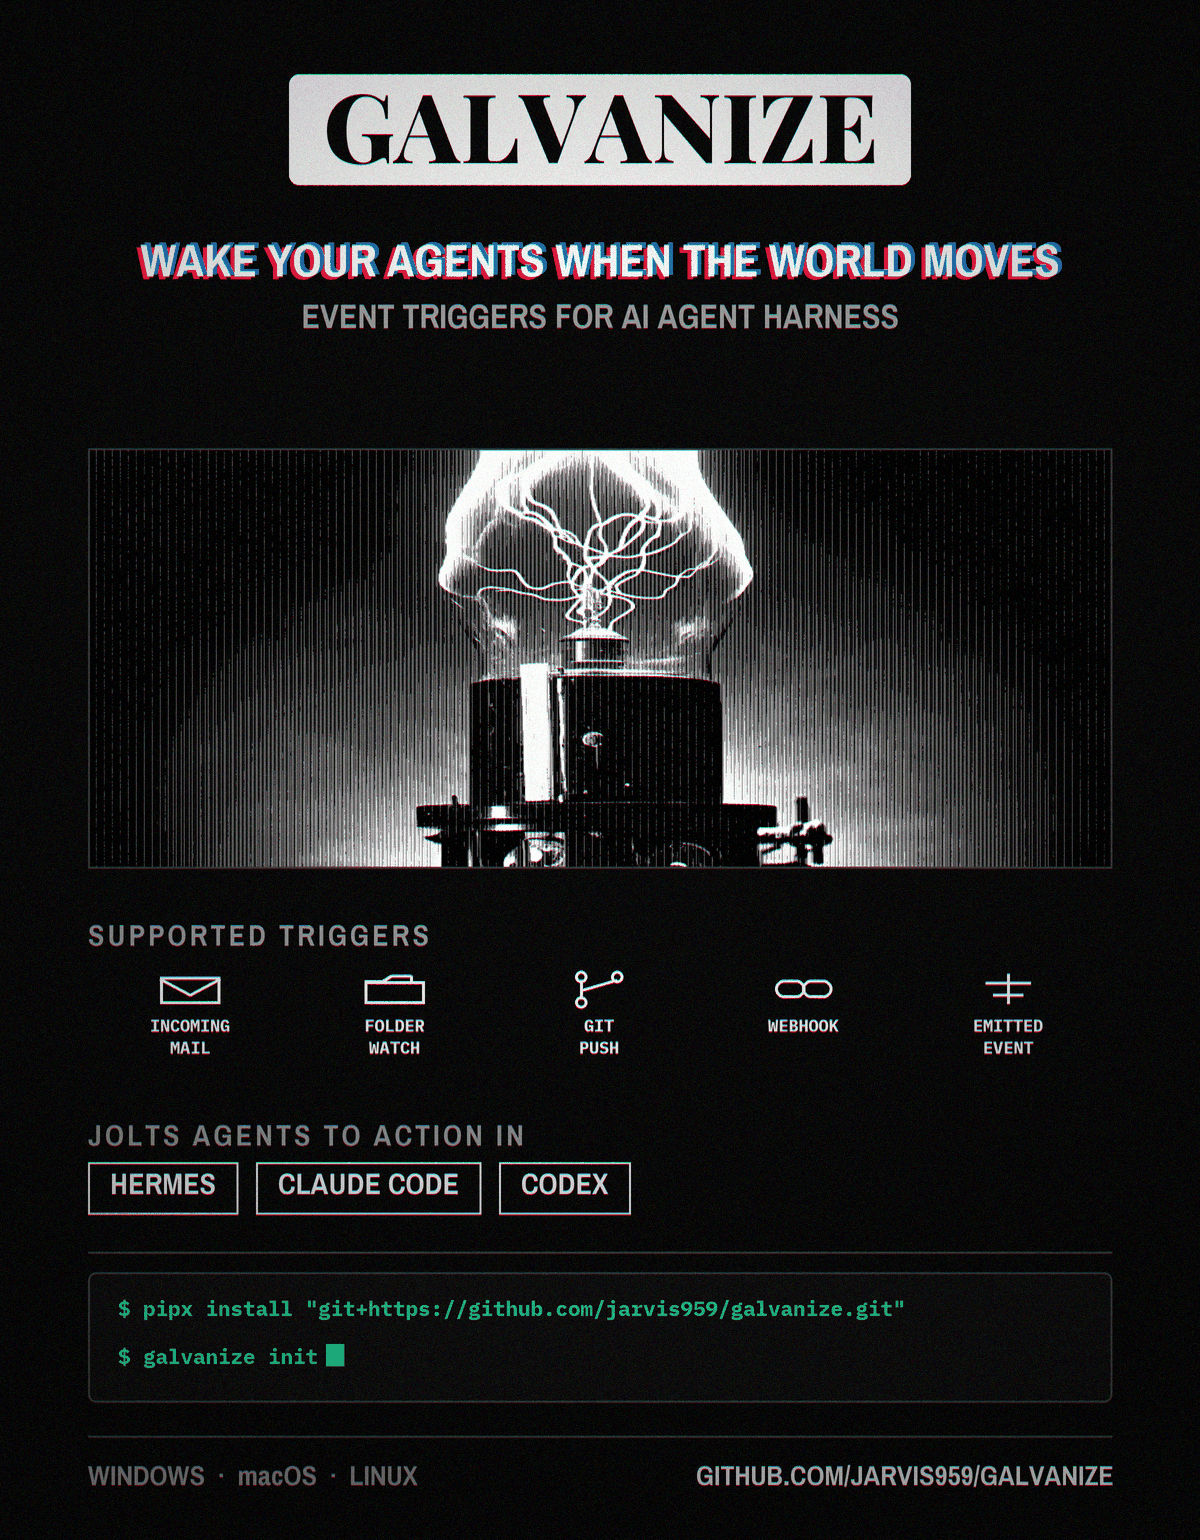
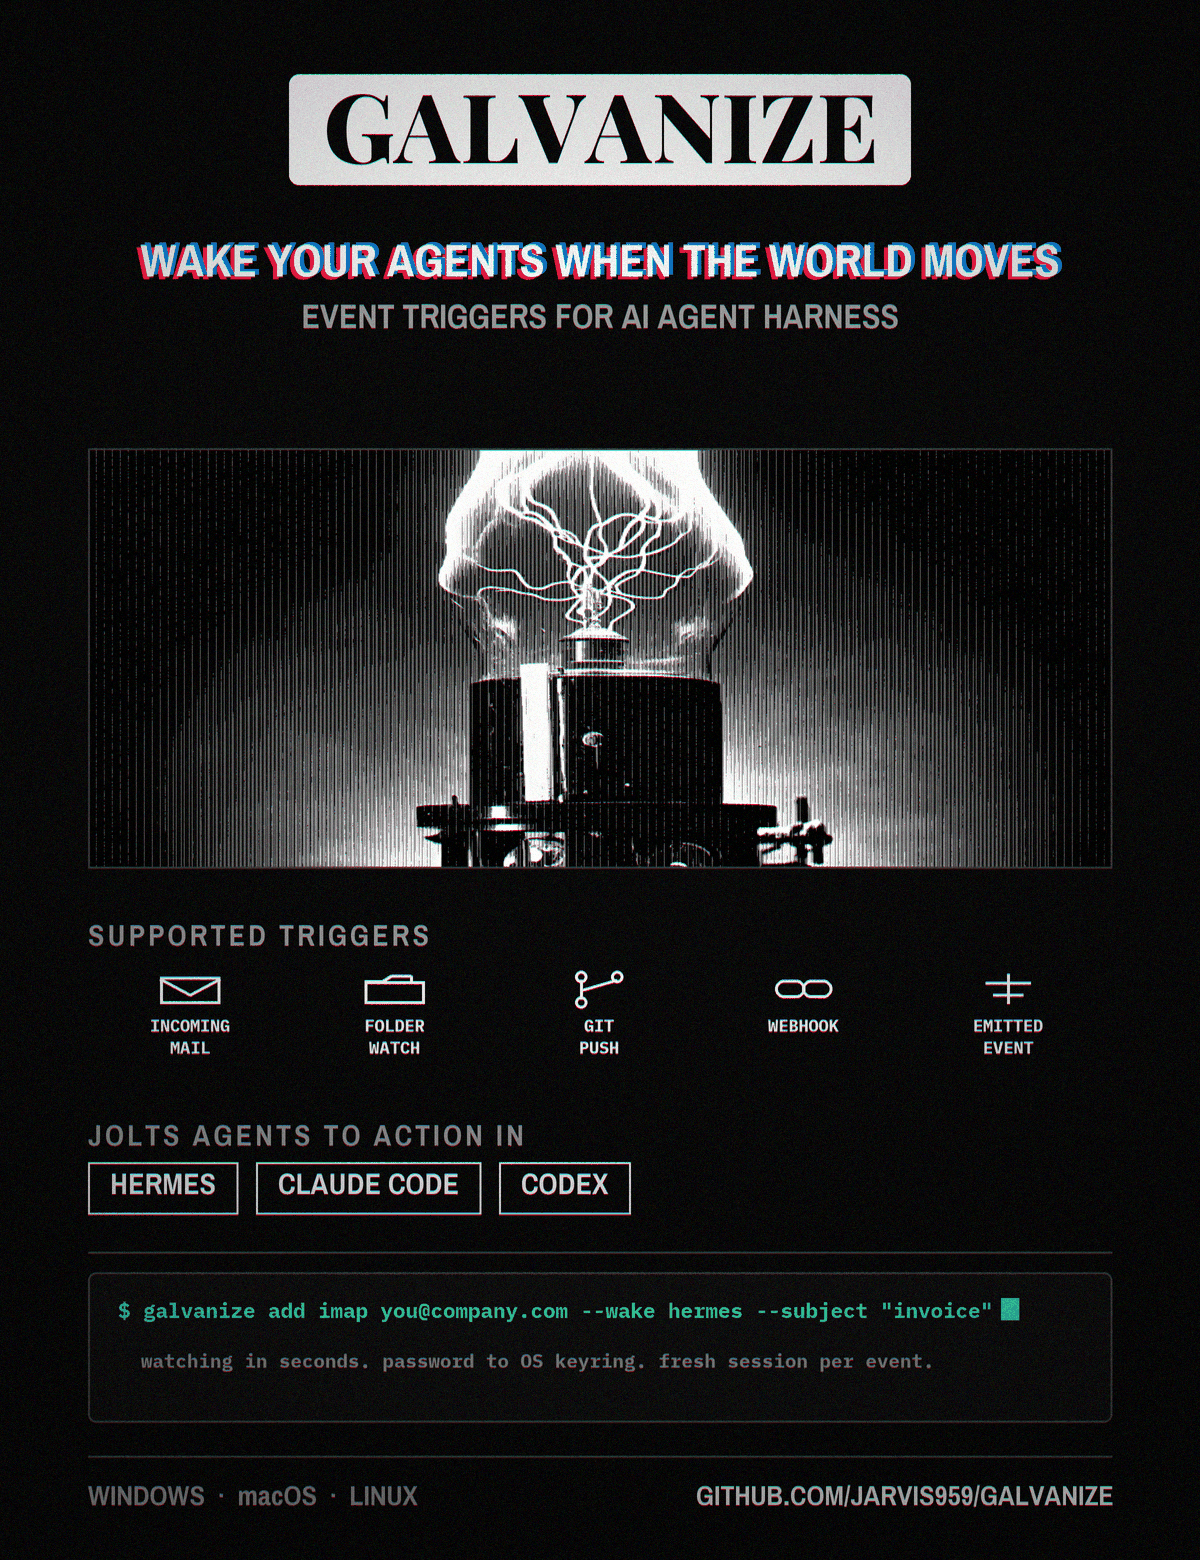
install: PyPI primary (pipx install galvanize now live); refresh hero asset

diff --git a/plugins/hermes/__init__.py b/plugins/hermes/__init__.py
@@ -44,8 +44,8 @@ def _run_op(op: str, **kwargs):
         if not shutil.which("galvanize"):
             return {"ok": False, "error":
                     "galvanize is not installed in this interpreter and 'galvanize' "
-                    "is not on PATH. Fix:  <hermes-python> -m pip install "
-                    "\"git+https://github.com/jarvis959/galvanize.git\"   (or run: galvanize init)"}
+                    "is not on PATH. Fix:  <hermes-python> -m pip install galvanize"
+                    "   (or run: galvanize init)"}
         cmd = ["galvanize"]
         cmd += {"add": ["add"], "remove": ["remove"], "test": ["test"],
                 "status": ["status"], "list": ["status"]}[op]

diff --git a/README.md b/README.md
@@ -6,13 +6,15 @@ galvanize watches the real world (new mail in an inbox, a file landing in a fold
 
 ## Install
 
-Works on Windows, macOS, and Linux (Python 3.10+). No cloning needed — one command installs straight from GitHub:
+Works on Windows, macOS, and Linux (Python 3.10+). One command:
 
 ```bash
-pipx install "git+https://github.com/jarvis959/galvanize.git"
-# or: uv tool install --from "git+https://github.com/jarvis959/galvanize.git" galvanize
-# or: pip install git+https://github.com/jarvis959/galvanize.git
+pipx install galvanize        # or: uv tool install galvanize
+                              # or: pip install galvanize
 ```
+
+(Prefer the bleeding edge straight from GitHub, no clone needed:
+`pipx install "git+https://github.com/jarvis959/galvanize.git"`)
 
 Then run setup once:
 
